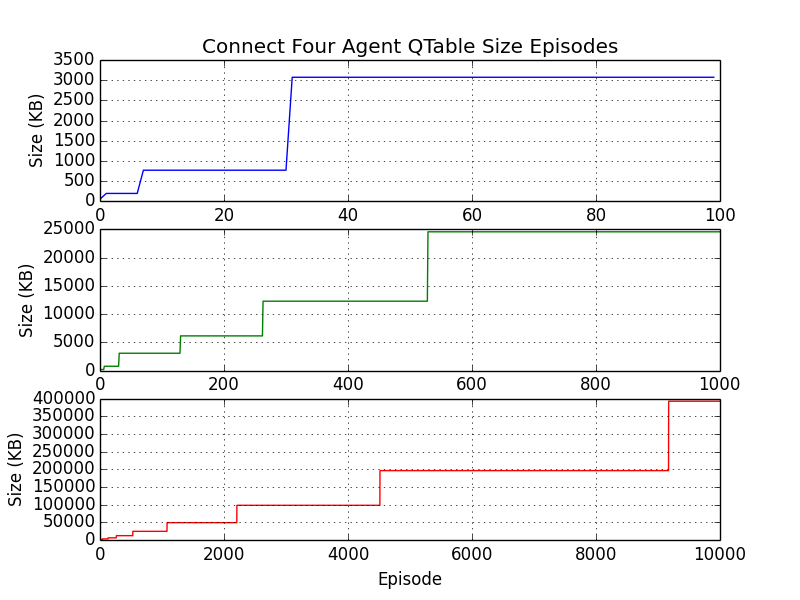
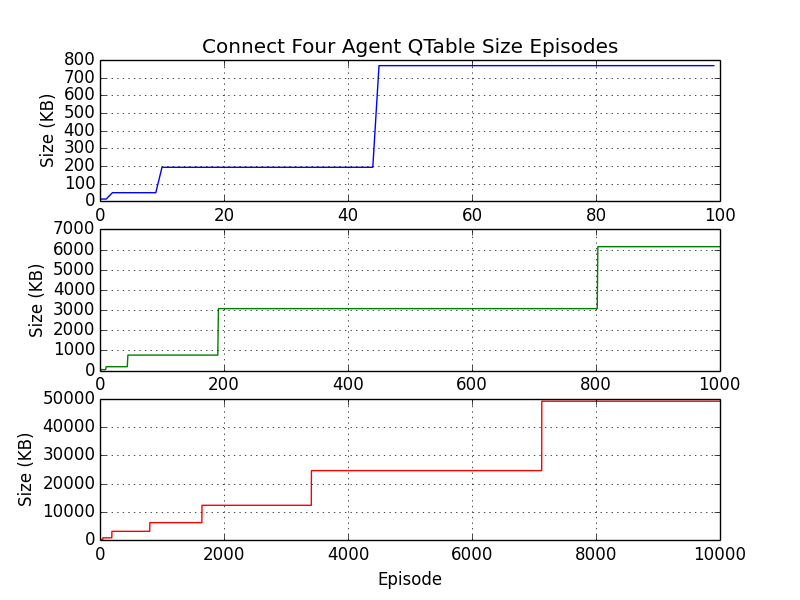
Corrected connect four logic to account for vertical restriction.

diff --git a/game/connectfour.py b/game/connectfour.py
@@ -36,17 +36,43 @@ class ConnectFour(Game):
         """Returns list of available moves given current states and next states."""
         actions = []
         states = []
-        for i, val in enumerate(self.board):
-            if val == '-':
-                actions.append(i)
-                self.board[i] = self.player
-                states.append(self.get_state(self.board))
-                self.board[i] = '-'
+
+        for i in range(self.cols):
+            column_indices = self.get_column_indices(i)
+            column_indices.reverse()
+            for j in column_indices:
+                # Iterate over input column backwards (bottom up) to determine drop landing position
+                if self.board[j] == '-':
+                    # Find first empty spot from bottom and 'drop' token there
+                    self.board[j] = self.player
+                    states.append(self.get_state(self.board))
+                    # Record column num as action
+                    actions.append(i)
+                    self.board[j] = '-'
+                    break
         return states, actions
 
     def get_state(self, board):
         """Returns board state as String."""
         return ''.join(board)
+
+    def get_grid(self, board):
+        """Returns grid 2D representation of board."""
+        grid = []
+        for i in range(self.rows):
+            grid.append([])
+            for j in range(self.cols):
+                grid[i].append(board[(i * self.cols) + j])
+        return grid
+
+    def get_column_indices(self, col):
+        """Return column indices of board at column position."""
+        column_indices = []
+        # Find index of bottom position in selected column
+        bottom = len(self.board) - (self.cols - col)
+        for i in range(col, bottom + 1, self.cols):
+            column_indices.append(i)
+        return column_indices
 
     def is_win(self):
         """Check the board for win condition.
@@ -54,11 +80,7 @@ class ConnectFour(Game):
         Possible outputs are X, O, Draw, None.
         """
         # Convert to 2D array for ease of implementaiton
-        grid = []
-        for i in range(self.rows):
-            grid.append([])
-            for j in range(self.cols):
-                grid[i].append(self.board[(i * self.cols) + j])
+        grid = self.get_grid(self.board)
 
         # Check horizontal, vertical, and diagonal sequences for four in a row
         for i in range(self.rows):
@@ -98,22 +120,34 @@ class ConnectFour(Game):
         # Unfinished game
         return None
 
-    def is_valid_move(self, position):
-        """Check that potential move is in a valid position.
+    def is_valid_move(self, col):
+        """Check that potential column selection is valid.
 
-        Valid means inbounds and not occupied.
+        Valid means inbounds and column is not completely occupied.
         """
-        if position >= 0 and position < len(self.board):
-            return self.board[position] == '-'
+        if col >= 0 and col < self.cols:
+            column_indices = self.get_column_indices(col)
+            for i in column_indices:
+                if self.board[i] == '-':
+                    return True
+            return False
         else:
             return False
 
-    def make_move(self, position):
-        """Makes move by setting position to player value.
+    def make_move(self, col):
+        """Makes move by vertically dropping token in column #col.
 
         Also toggles player and returns is_win result.
         """
-        self.board[position] = self.player
+        # Find index of bottom position in selected column
+        column_indices = self.get_column_indices(col)
+        column_indices.reverse()
+        for i in column_indices:
+            # Iterate over input column backwards (bottom up) to determine drop landing position
+            if self.board[i] == '-':
+                # Find first empty spot from bottom and 'drop' token there
+                self.board[i] = self.player
+                break
         self.player = 'O' if self.player == 'X' else 'X'
         return self.is_win()
 

diff --git a/tests/game/test_connectfour.py b/tests/game/test_connectfour.py
@@ -34,10 +34,10 @@ class TestConnectFour(unittest.TestCase):
 
     def test_reset(self):
         """Test reset method."""
-        modified_board = ['X', '-', '-', '-',
-                          '-', '-', '-', 'X',
+        modified_board = ['-', '-', '-', '-',
+                          '-', '-', '-', '-',
                           'O', '-', '-', '-',
-                          'O', '-', '-', '-']
+                          'O', '-', 'X', 'X']
         self.game.board = modified_board
         self.game.reset()
         self.assertEqual(['-', '-', '-', '-',
@@ -49,13 +49,13 @@ class TestConnectFour(unittest.TestCase):
     def test_get_open_moves(self):
         """Test get_open_moves method."""
         self.game.board = ['-', '-', 'X', 'X',
-                           'O', 'O', 'O', 'O',
+                           'O', '-', 'O', 'O',
                            'O', 'O', 'X', 'X',
                            'X', 'X', 'X', 'O']
         next_moves = self.game.get_open_moves()
         states = next_moves[0]
         actions = next_moves[1]
-        self.assertEqual(['X-XXOOOOOOXXXXXO', '-XXXOOOOOOXXXXXO'], states)
+        self.assertEqual(['X-XXO-OOOOXXXXXO', '--XXOXOOOOXXXXXO'], states)
         self.assertEqual([0, 1], actions)
 
     def test_get_state(self):
@@ -171,10 +171,10 @@ class TestConnectFour(unittest.TestCase):
         # Check win result
         self.assertEqual(None, self.game.make_move(0))
         # Check board state
-        self.assertEqual(['X', '-', '-', '-',
+        self.assertEqual(['-', '-', '-', '-',
                           '-', '-', '-', '-',
                           '-', '-', '-', '-',
-                          '-', '-', '-', '-'], self.game.board)
+                          'X', '-', '-', '-'], self.game.board)
         # Check toggled game player
         self.assertEqual('O', self.game.player)
 
